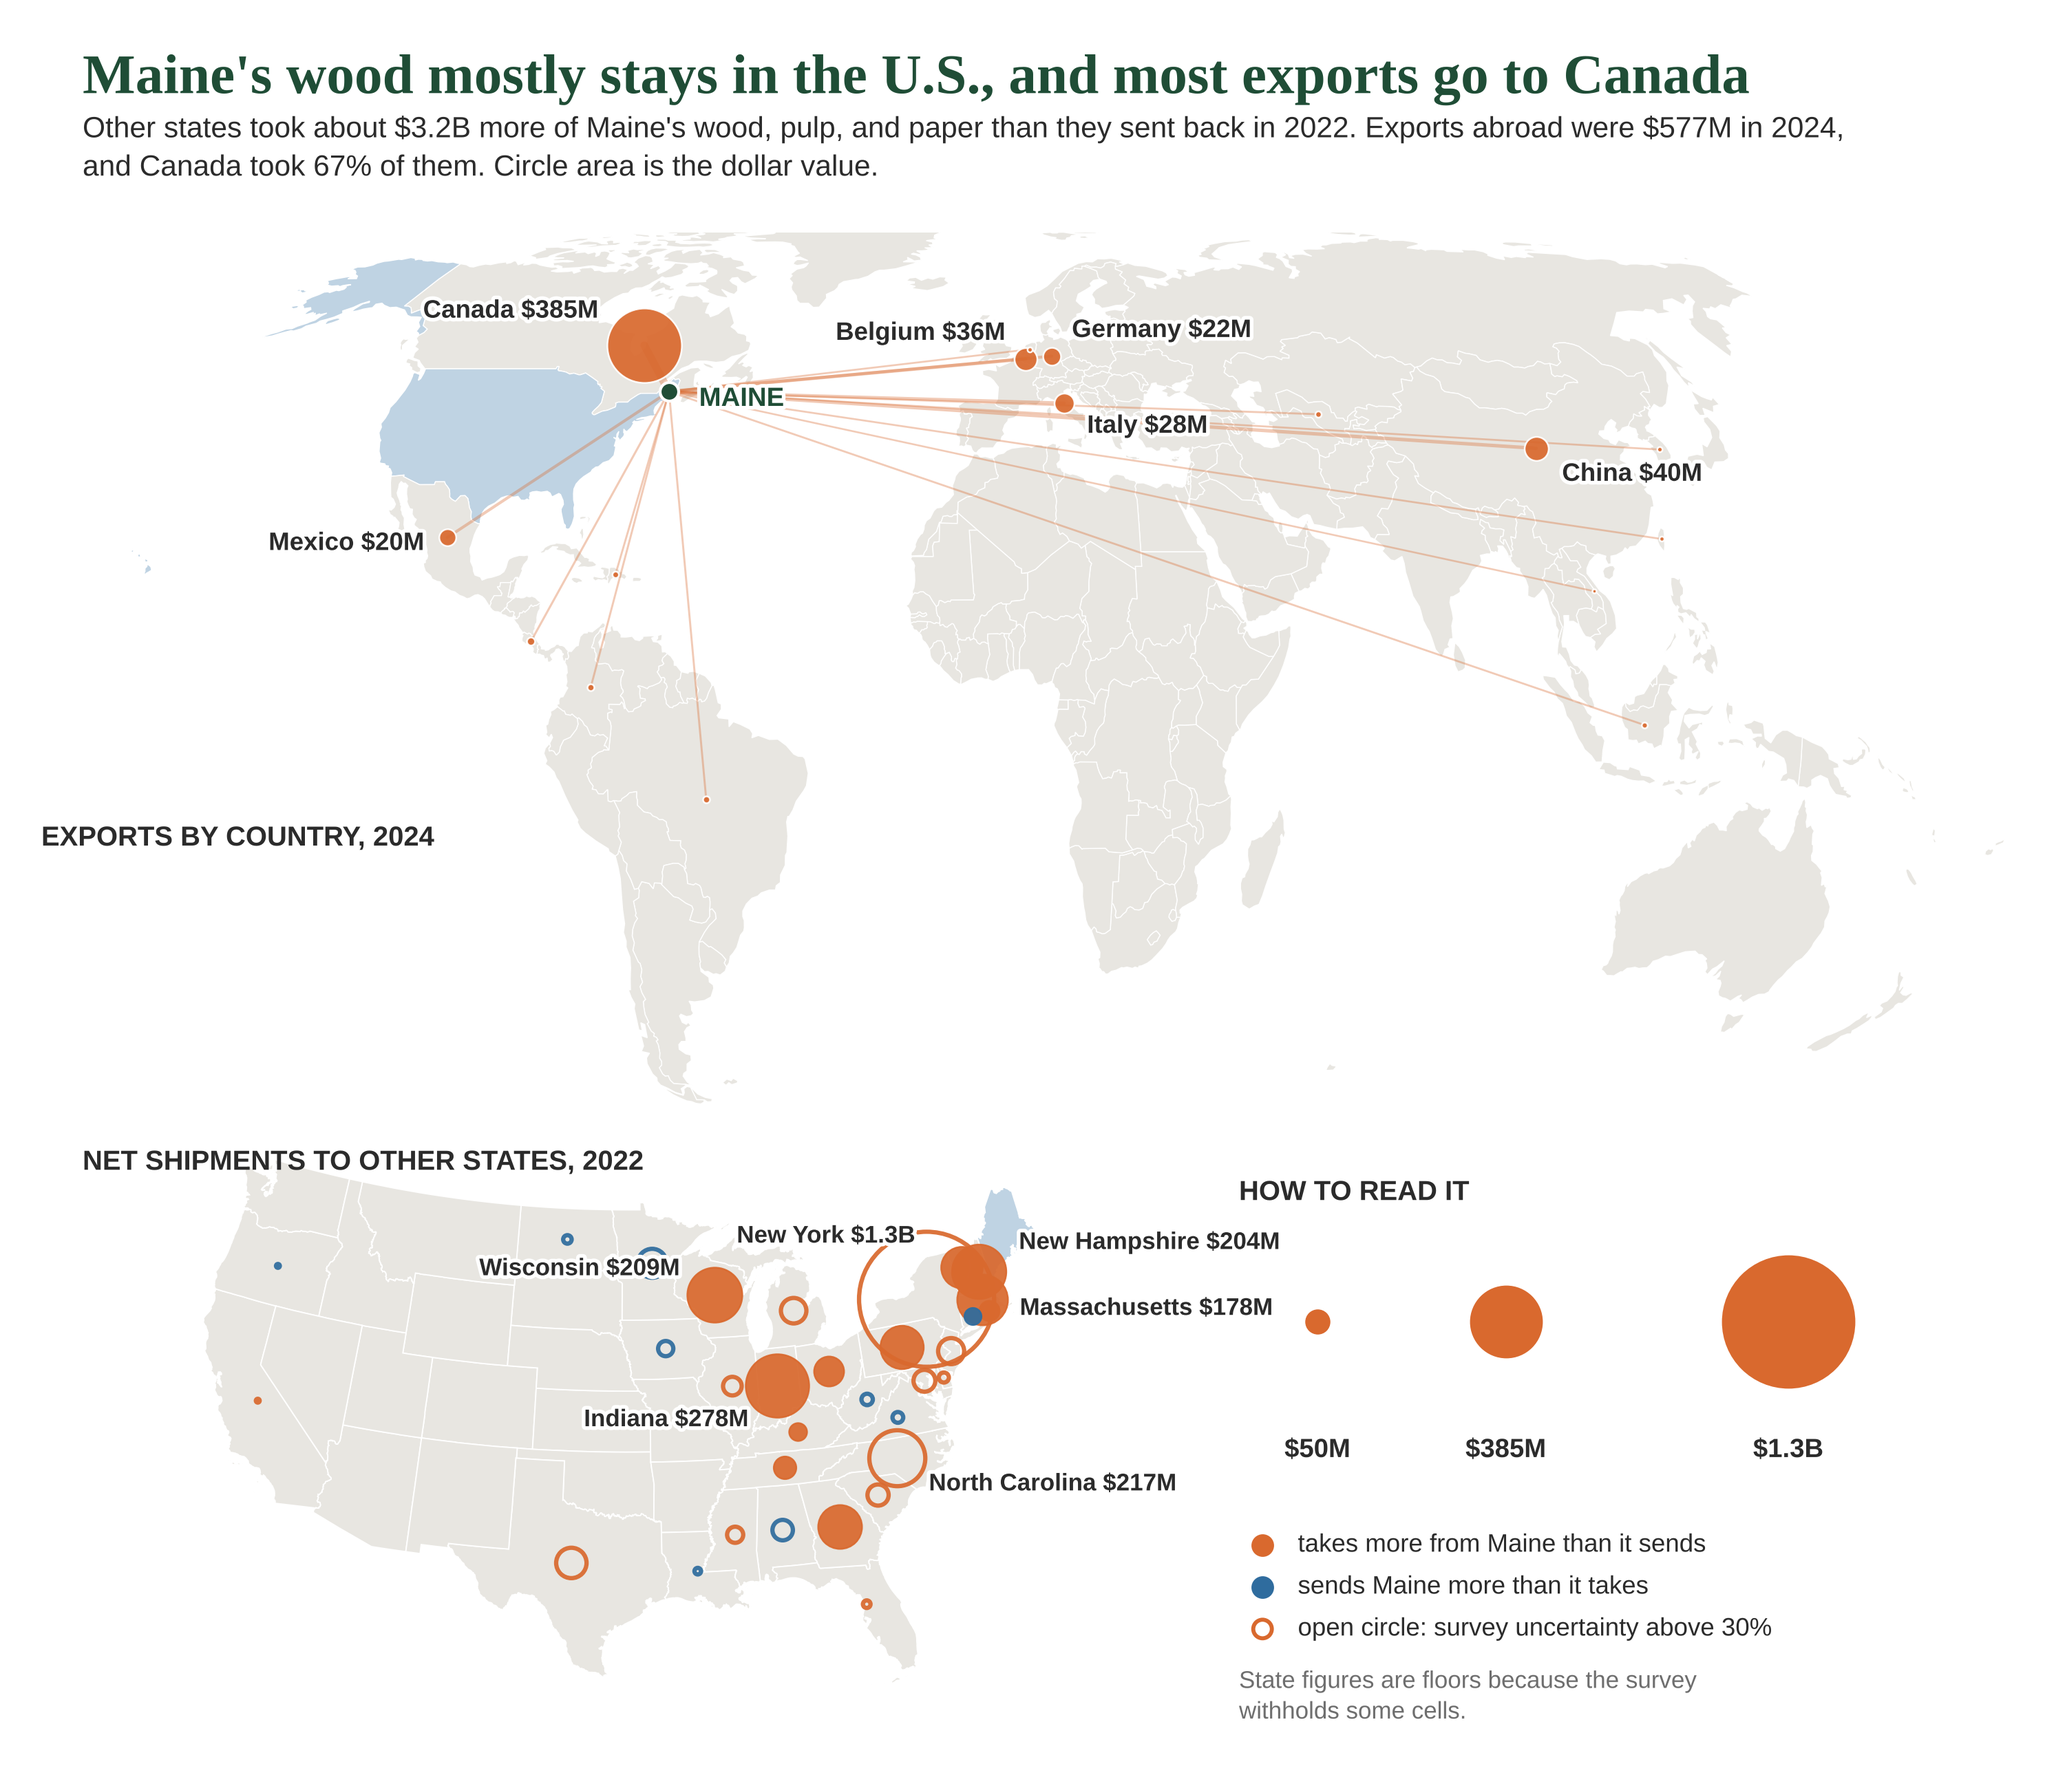
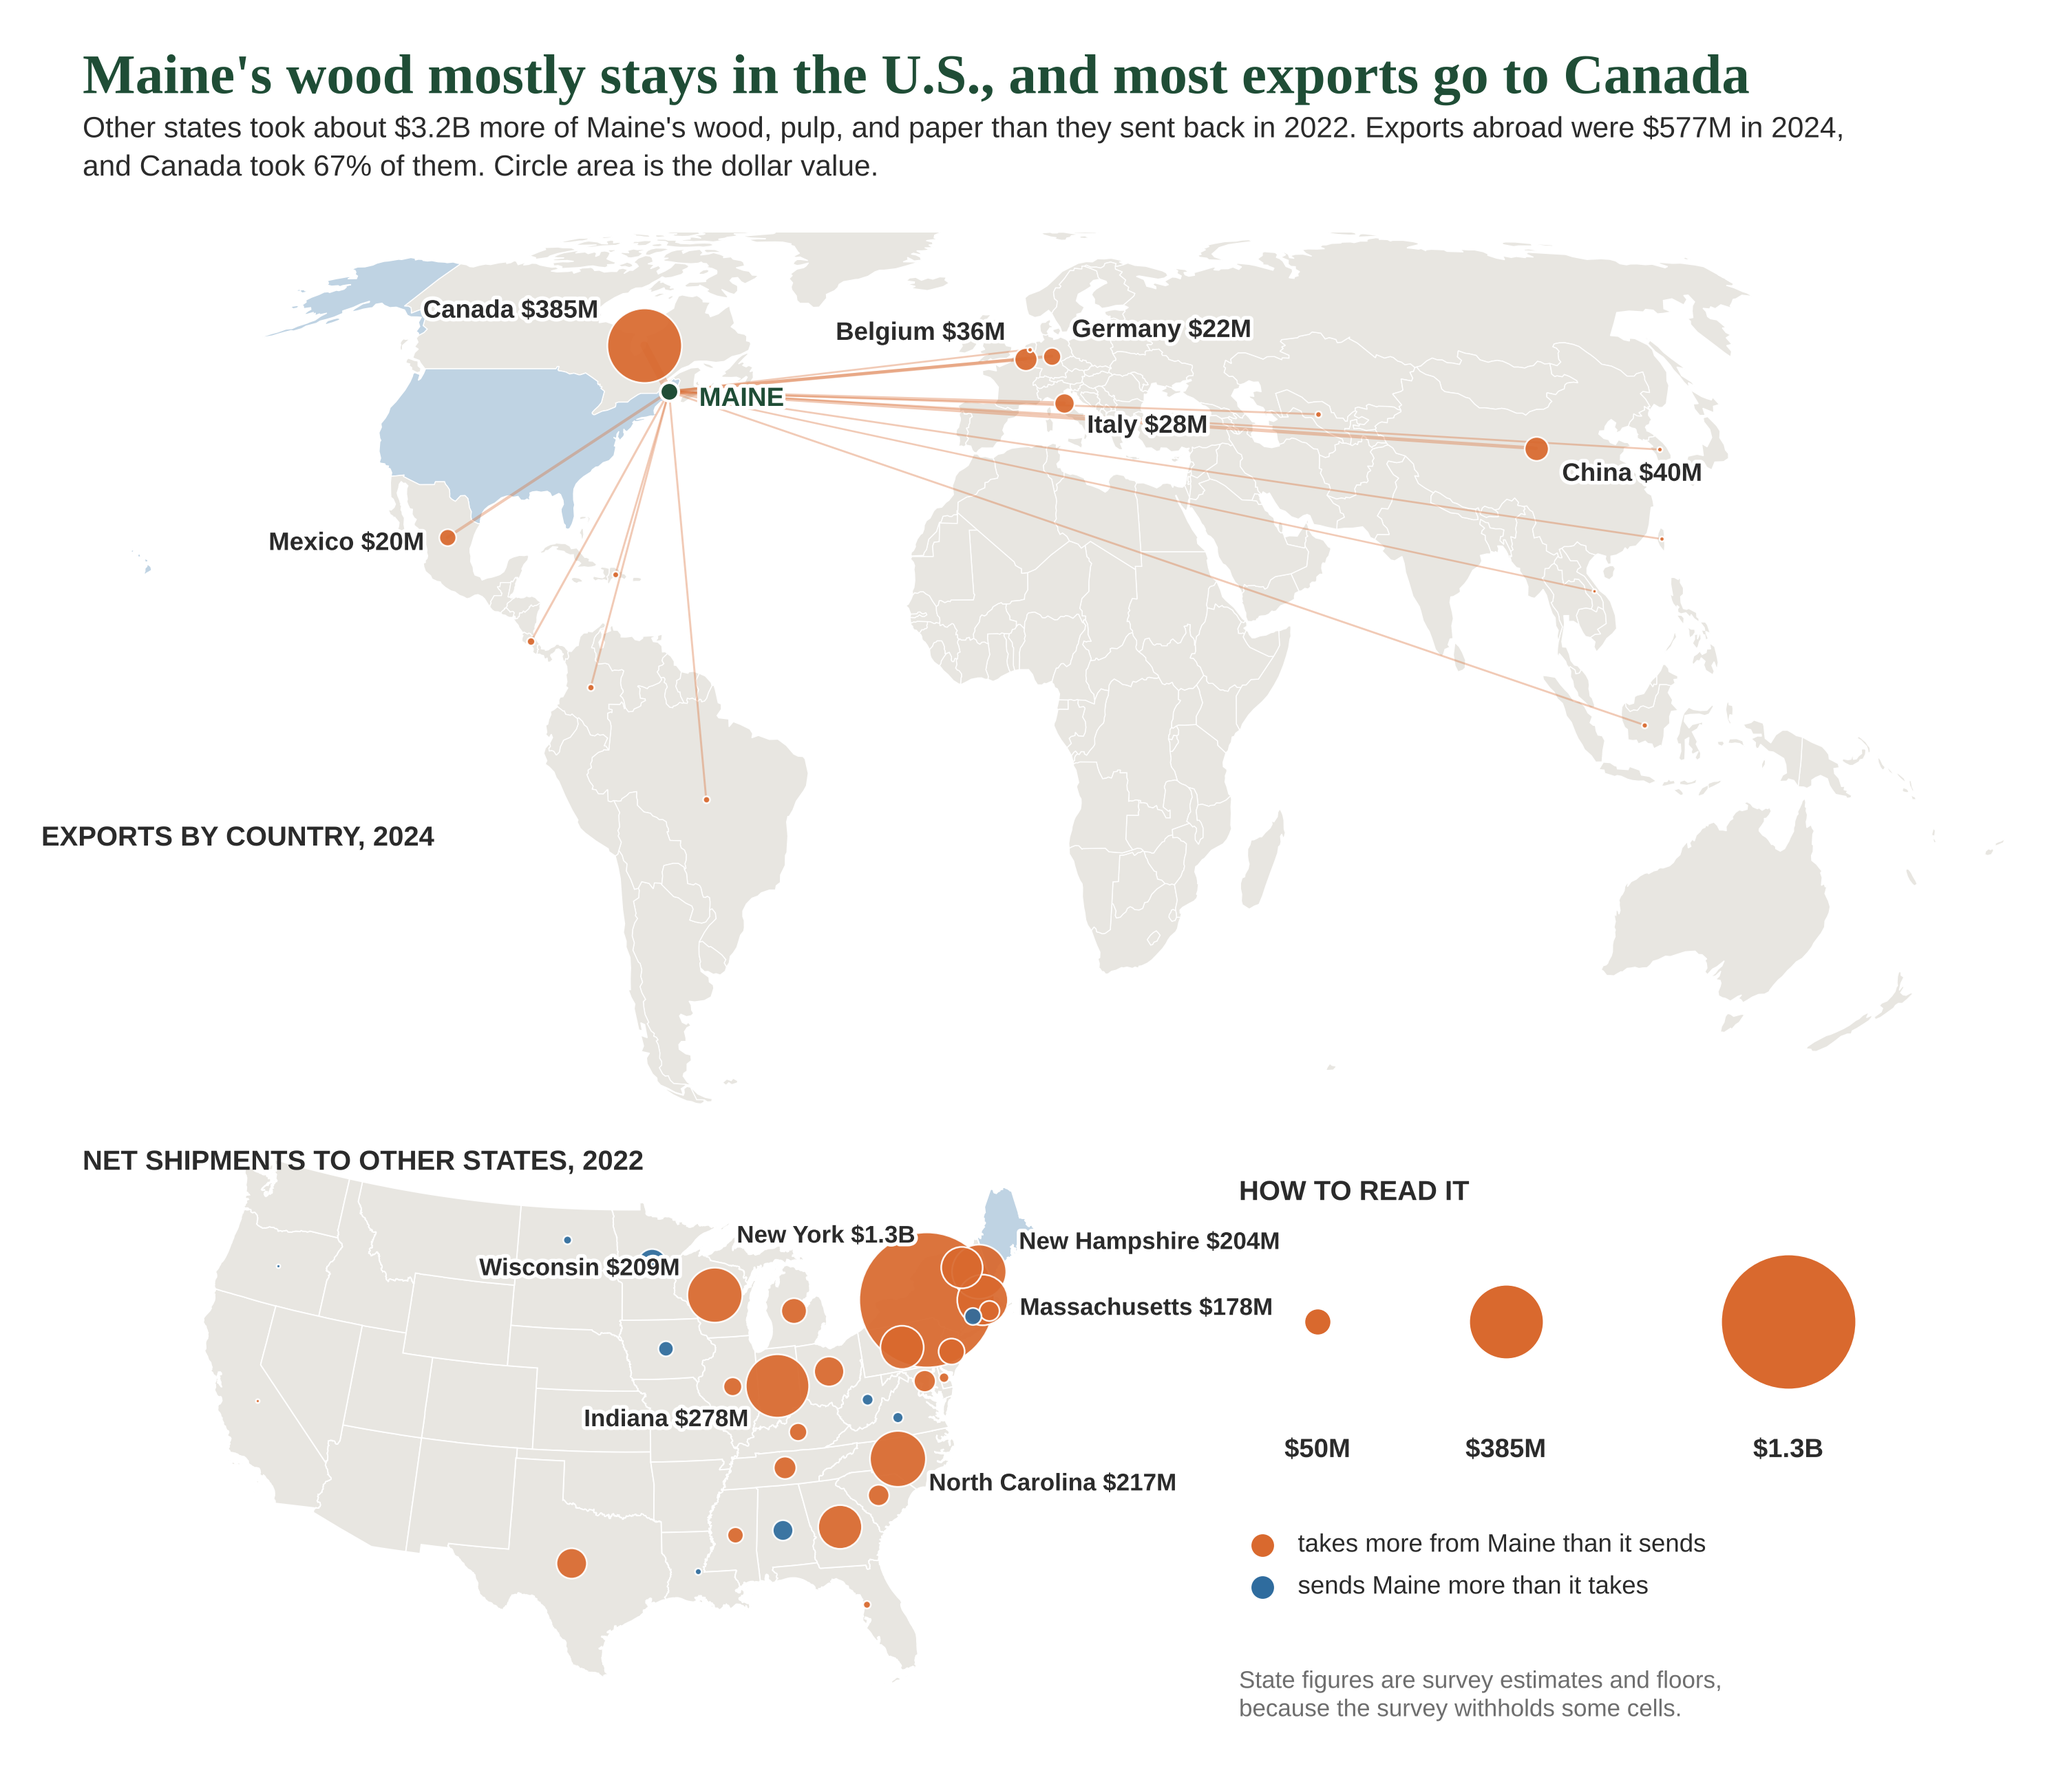
Export map: all bubbles filled, open circles removed; notes on pulp imports and GTM grid
Claude-Session: https://claude.ai/code/session_013WsDVoeaXCGmdbNt2QvfhH

diff --git a/wood-travels/2026-11-11_maine-wood-exports-world-and-us-map_DRAFT.py b/wood-travels/2026-11-11_maine-wood-exports-world-and-us-map_DRAFT.py
@@ -159,7 +159,7 @@ for r in sorted(cfs, key=lambda r: -abs(float(r["net_musd"]))):
     lon, lat = centroid(states[r["state"]])
     x, y = albers(np.array([lon]), np.array([lat]))
     col = ORG if net > 0 else NAV
-    bx.scatter(x, y, s=(2 * rad(abs(net))) ** 2, facecolors="none" if low else col, edgecolors=col, linewidths=1.5 if low else 0.6, zorder=3, alpha=0.93)
+    bx.scatter(x, y, s=(2 * rad(abs(net))) ** 2, facecolors=col, edgecolors="white", linewidths=0.6, zorder=3, alpha=0.93)
     if r["state"] in slab:
         dx, dy, ha = slab[r["state"]]
         txt = f"{r['state']} {usd(net)}" if net > 0 else f"{r['state']} sends Maine {usd(-net)} more"
@@ -173,13 +173,12 @@ xs = [0.10, 0.34, 0.70]
 for xk, v in zip(xs, (50, 385, 1265)):
     kx.scatter([xk], [0.70], s=(2 * rad(v)) ** 2, c=ORG, edgecolors="white", linewidths=0.6, clip_on=False)
     kx.text(xk, 0.47, usd(v), ha="center", va="center", fontsize=9.2, fontweight="bold", color=INK)
-notes = [(ORG, True, "takes more from Maine than it sends"), (NAV, True, "sends Maine more than it takes"),
-         (ORG, False, "open circle: survey uncertainty above 30%")]
+notes = [(ORG, True, "takes more from Maine than it sends"), (NAV, True, "sends Maine more than it takes")]
 for i, (col, filled, t) in enumerate(notes):
     yk = 0.30 - 0.075 * i
     kx.scatter([0.03], [yk], s=42, facecolors=col if filled else "none", edgecolors=col, linewidths=1.4, clip_on=False)
     kx.text(0.075, yk, t, fontsize=8.8, color=INK, va="center")
-kx.text(0.0, -0.02, "State figures are floors because the survey\nwithholds some cells.", fontsize=8.4, color=GRY, va="bottom", linespacing=1.25)
+kx.text(0.0, -0.02, "State figures are survey estimates and floors,\nbecause the survey withholds some cells.", fontsize=8.4, color=GRY, va="bottom", linespacing=1.25)
 
 fig.savefig(OUT, dpi=300, facecolor="white")
 print("saved", OUT, round(net_pos), round(total_exp))

diff --git a/wood-travels/README.md b/wood-travels/README.md
@@ -53,4 +53,7 @@ Note (November 10, 2026, final pass): the mill map now shows all five Maine mill
 Note (November 12, 2026):
 - `2026-11-12_patch-harvest-deck_DRAFT.py` rewrites the deck of the harvest chart to add the decline in total harvest (13.5 million green tons in 2011 to 10.0 million in 2023, down 26%; Maine Forest Service Wood Processor Reports as shown on maineforestdashboard.com). The right panel stays as shares because the annual by-product series is not in this folder.
 - Mill map unchanged. The University of Maine School of Forest Resources mill database (Daigneault lab) was used to check the Maine sawmill size classes: all 10 mapped mills that carry a board-foot figure in the database fall in the class already drawn (Masardis 120, Dixfield 100, Stratton 130, Dover-Foxcroft 85, Moose River 85, West Enfield 15, Searsmont 30, Belgrade 6, Buckfield Lovell 5.5, R.E. Lowell 4 million board feet). The database lists the Jay pulp mill as open, so its statuses predate 2023 and were not used.
-- Pulp imports check: UN Comtrade, U.S.-reported imports, 2024, HS 470329 (bleached non-coniferous chemical wood pulp): 2.43 million metric tons in total, Brazil 2.02 million (83%), Uruguay 0.28 million (12%), Canada 0.11 million (5%), none from China. All wood pulp (HS 47) imports were $4.72B, Canada $2.17B, Brazil $1.84B, China $1.2M.
+- Pulp imports check: UN Comtrade, U.S.-reported imports, 2024, HS 470329 (bleached non-coniferous chemical wood pulp): 2.43 million metric tons in total, Brazil 2.02 million (83%), Uruguay 0.28 million (12%), Canada 0.11 million (5%), none from China. All of HS chapter 47 (wood pulp plus recovered paper) imports were $4.72B, Canada $2.17B, Brazil $1.84B, China $1.2M.
+- Later on November 12, 2026: open circles removed from the export map at Aaron's direction (Adam's comment); every state bubble is now filled, and the key note reads "State figures are survey estimates and floors, because the survey withholds some cells." The coefficient of variation per state stays in `2022_maine-net-shipments-to-states-cfs_DATA.csv`.
+- U.S. pulp self-sufficiency: Forisk (October 29, 2025, FAO data for 2023) gives U.S. pulp production of 48 million tonnes, exports of about 15% of production, and imports "close to the same volume," so imports are roughly 15% of production (about 7 million tonnes). https://forisk.com/the-worlds-top-pulp-producers-and-consumers/
+- `GTM_Forest_Type.gdb` from Adam (received November 12, 2026) is a 0.5 degree grid of GTM region and forest type codes (58,920 cells, 271 codes) with no leakage values. Redrawing the leakage shading needs the leakage rate per code (Table S3 of Daigneault et al. 2025 as a file).
